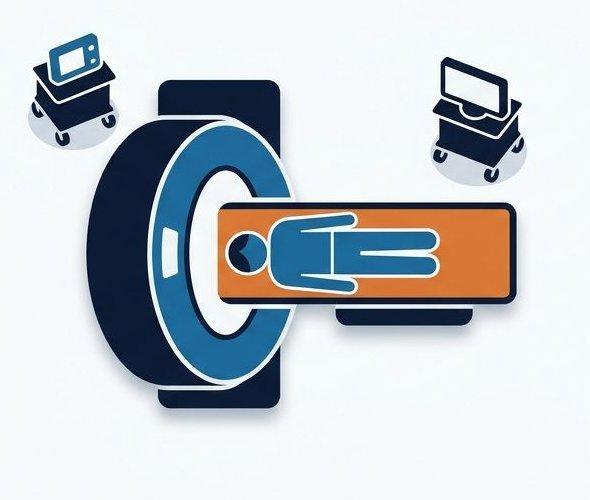
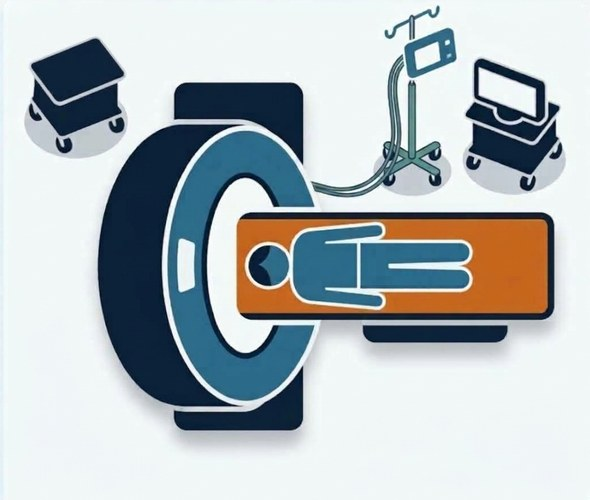
Replace head-to-scanner image with the IV-pole display layout
New illustration shows the jet display moved off its stand onto an IV
pole beside the gantry (long cable). Cropped from the supplied
screenshot to the same 590x500 size as the feet-to-scanner image, and
the alt text updated to match.

Claude-Session: https://claude.ai/code/session_01LwuqAxoCqXpYsqmrtYLscF

diff --git a/index.html b/index.html
@@ -511,7 +511,7 @@
     <p style="font-size:14px;color:var(--muted);margin-bottom:12px;">Tap a layout for details.</p>
     <div class="orient-grid">
       <button class="orient-card" data-orient="head" aria-pressed="false">
-        <img class="orient-img" src="assets/room-head-to-scanner.jpg" alt="Top-down CT room, head to scanner: the jet ventilator is behind the gantry and the TcCO2 monitor is at the patient's feet." width="590" height="500">
+        <img class="orient-img" src="assets/room-head-to-scanner.jpg" alt="Top-down CT room, head to scanner: the jet ventilator is behind the gantry, its display is on an IV pole beside the gantry connected by a long cable, and the TcCO2 monitor is at the patient's feet." width="590" height="500">
         <div class="orient-title">Head to Scanner</div>
         <div class="orient-sub">Liver / lung ablation</div>
       </button>
